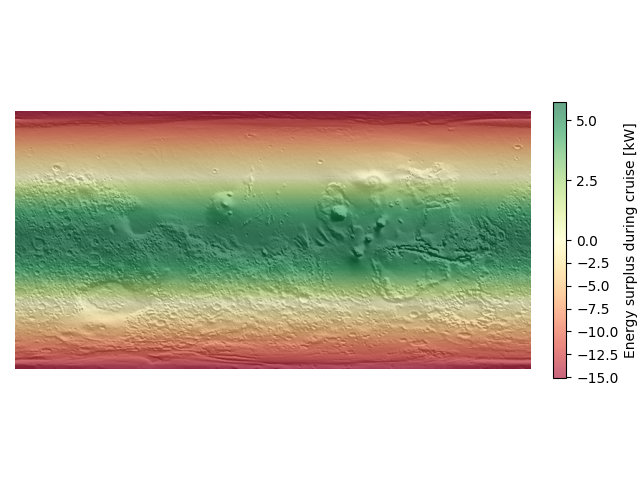
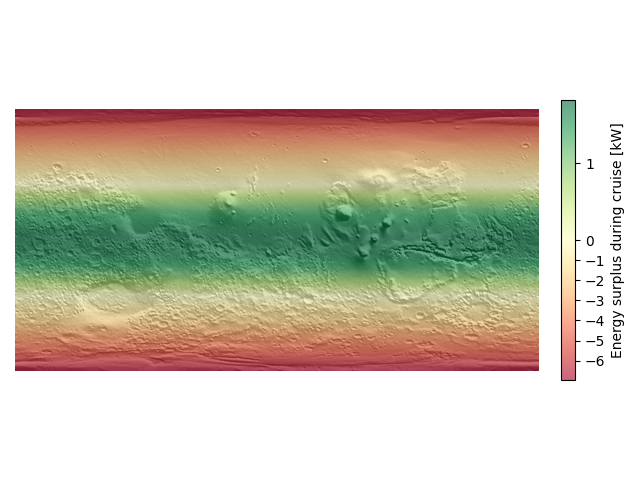
Iteration set up

Changed region(s): [[0.0, 0.1875, 1.0, 0.8125]]

diff --git a/dse/preliminary/Tilt_rotor/tiltrotormain.py b/dse/preliminary/Tilt_rotor/tiltrotormain.py
@@ -9,8 +9,9 @@ from constants import const
 if __name__ == '__main__':
     # Sizing of Rotor:
     margin = 0.1
-    Mass_thrust = 3000*(1+margin)  # kg
+
     Mass_design = 3000  # kg
+    Mass_thrust = Mass_design*(1+margin)  # kg
     Mass_payload = 400  # kg
 
     DesignRange = 1000 #km
@@ -22,35 +23,40 @@ if __name__ == '__main__':
     N_ult = 4.4
     AR = 20
     wingbraced = True
-    V_cr = 112  # m/s
+    V_cr = 400/3.6  # m/s
     E_density = 333.33  # W/kg
     P_density_cr = 212  # wh/kg
     P_density_TO = 700  # Wh/kg Power Density of the devices used for take-off
     E_density_TO = 300  # W/kg
     Volume_bat = 450  # Wh/L
-
     # Set up Calculations
     TipSpeed = -0.88*V_cr + 268.87
-    R, takeOffThrustPerEngine, Horsepower, Power, mass_rotors = RadiusMassElementMomentum(Mass_thrust, TotalRotors, BladePerRotor, coaxial, TipSpeed, print_results=True)
+    diff=100
+    while diff>0.01:
+        Mass_thrust = Mass_design * (1 + margin)  # kg
+        R, takeOffThrustPerEngine, Horsepower, Power, mass_rotors = RadiusMassElementMomentum(Mass_thrust, TotalRotors, BladePerRotor, coaxial, TipSpeed, print_results=True)
 
-    # Calculate wing area
-    S, cruiseThrust = area_and_thrust(0, const['cl'], const['cd'], Mass_design, 0.5*const['airDensity']*V_cr**2)
+        # Calculate wing area
+        S, cruiseThrust = area_and_thrust(0, const['cl'], const['cd'], Mass_design, 0.5*const['airDensity']*V_cr**2)
 
-    # Size batteries for cruise and solar panels
-    cruiseThrust += DragEstimation(R=R, Swing=S, t2c=const['t/c'], Vcr=V_cr, visc_cr=const['visc_cr'], AR=AR)
-    cruiseBattery, panelMass, powerSurplus = size_power_subsystem(R, takeOffThrustPerEngine, cruiseThrust, 1e6 / V_cr, 600, S/2,
-                                                                  plot=True)
+        # Size batteries for cruise and solar panels
+        cruiseThrust += DragEstimation(R=R, Swing=S, t2c=const['t/c'], Vcr=V_cr, visc_cr=const['visc_cr'], AR=AR)
+        batteryMass, panelMass, powerSurplus = size_power_subsystem(R, takeOffThrustPerEngine, cruiseThrust, 1e6 / V_cr, 600, S/2,
+                                                                      plot=True)
 
-    # Calculate weights
-    Range, wingWeight, tailWeight, bodyWeight = Class2Weight(R, mass_rotors, Mass_design, N_ult, AR,
-                                                                                    wingbraced, V_cr, E_density, P_density_TO,
-                                                                                    E_density_TO, Mass_payload, panelMass)
+        # Calculate weights
+        Range, wingWeight, tailWeight, bodyWeight = Class2Weight(R, mass_rotors, Mass_design, N_ult, AR,
+                                                                                        wingbraced, V_cr, E_density, P_density_TO,
+                                                                                        E_density_TO, Mass_payload, panelMass)
 
-    # Payload-Range
-    PayloadRange(R, mass_rotors, Mass_design, N_ult, AR, wingbraced, V_cr, E_density, P_density_TO, E_density_TO,
-                 panelMass, Mass_payload, minRange=1000)
+        # Payload-Range
+        PayloadRange(R, mass_rotors, Mass_design, N_ult, AR, wingbraced, V_cr, E_density, P_density_TO, E_density_TO,
+                     panelMass, Mass_payload, minRange=1000)
 
-    # Climb Performance
-    ROC_cruise = AircraftClimbPerf(cruiseBattery, P_density_cr, Mass_design, R, V_cr)
-    ROC_rotor = RotorClimbPerf(Mass_design, R, TotalRotors)
-    print(ROC_rotor, ROC_cruise)
+        # Climb Performance
+        ROC_cruise = AircraftClimbPerf(batteryMass, P_density_cr, Mass_design, R, V_cr)
+        ROC_rotor = RotorClimbPerf(Mass_design, R, TotalRotors)
+        Totalweight = mass_rotors+panelMass+batteryMass+wingWeight+tailWeight+bodyWeight
+        diff = abs((Totalweight-Mass_design)/Mass_design)
+        print(Totalweight)
+        Mass_design = Totalweight

diff --git a/dse/preliminary/Tilt_rotor/RotorEngineSizing.py b/dse/preliminary/Tilt_rotor/RotorEngineSizing.py
@@ -1,6 +1,5 @@
 import numpy as np
 import matplotlib.pyplot as plt
-from scipy import integrate
 from scipy.interpolate import InterpolatedUnivariateSpline
 from scipy.optimize import curve_fit
 from cruise_sizing import max_tipSpeed
@@ -16,7 +15,7 @@ def RadiusMassElementMomentum(M, N_rotors, N_blades, coaxial, V_tip, print_resul
 
     b = N_blades
     v_tip = V_tip
-    T_min = 1.1 * M * gm /N_rotors
+    T_min =M * gm /N_rotors
 
     # Initial guesses
     T = 0
@@ -75,23 +74,31 @@ def RadiusMassElementMomentum(M, N_rotors, N_blades, coaxial, V_tip, print_resul
 
     #Rotor Weight:
     # TODO: Update to S1223 Airfoil
-    x_cord_top = [1, 0.99838, 0.99417, 0.98825, 0.98075, 0.97111, 0.95884,0.94389,0.92639,0.90641,0.88406,0.85947,0.83277,
+    x_cord_top = np.flip([1, 0.99838, 0.99417, 0.98825, 0.98075, 0.97111, 0.95884,0.94389,0.92639,0.90641,0.88406,0.85947,0.83277,
                   0.80412,0.77369,0.74166,0.70823,0.6736,0.63798,0.60158,0.56465,0.52744,0.49025,0.4534,0.41721,0.38193,
                   0.34777,0.31488,0.28347,0.2537,0.22541,0.19846,0.17286,0.14863,0.12591,0.10482,0.08545,0.06789,0.05223,
-                  0.03855,0.02694,0.01755,0.01028,0.00495,0.00155,0.00005]
+                  0.03855,0.02694,0.01755,0.01028,0.00495,0.00155,0.00005])
     x_chord_bottom = [0.00005,0.00044,0.00264,0.00789,0.01718,0.03006,0.04627,
                   0.06561,0.08787,0.11282,0.1402,0.17006,0.20278,0.2384,0.27673,0.3175,0.36044,0.40519,0.45139,0.4986,0.54639,
                   0.59428,0.64176,0.68832,0.73344,0.7766,0.81729,0.855,0.88928,0.91966,0.94573,0.96693,0.98255,0.99268,0.99825,1]
-    y_cord_top = [0,0.00126,0.00494,0.01037,0.01646,0.0225,0.02853,0.03476,0.04116,0.04768,0.05427,0.06089,0.06749,0.07402,0.08044,0.08671,0.09277,0.09859,0.10412,0.10935,0.11425,0.11881,0.12303,0.12683,0.13011,0.13271,0.13447,0.13526,0.13505,0.13346,0.13037,0.12594,0.12026,0.11355,0.10598,0.0977,0.08879,0.0794,0.06965,0.05968,0.04966,0.03961,0.02954,0.01969,0.01033,0.00178]
+    y_cord_top = np.flip([0,0.00126,0.00494,0.01037,0.01646,0.0225,0.02853,0.03476,0.04116,0.04768,0.05427,0.06089,0.06749,0.07402,0.08044,0.08671,0.09277,0.09859,0.10412,0.10935,0.11425,0.11881,0.12303,0.12683,0.13011,0.13271,0.13447,0.13526,0.13505,0.13346,0.13037,0.12594,0.12026,0.11355,0.10598,0.0977,0.08879,0.0794,0.06965,0.05968,0.04966,0.03961,0.02954,0.01969,0.01033,0.00178])
     y_chord_bottom = [0.00178,-0.00561,-0.0112,-0.01427,-0.0155,-0.01584,-0.01532,-0.01404,-0.01202,-0.00925,-0.00563,-0.00075,0.00535,0.01213,0.01928,0.02652,0.03358,0.04021,0.04618,0.05129,0.05534,0.0582,0.05976,0.05994,0.05872,0.05612,0.05219,0.04706,0.04088,0.03387,0.02624,0.01822,0.0106,0.00468,0.00115,0]
 
     S1223_top = InterpolatedUnivariateSpline(x_cord_top, y_cord_top)
     S1223_bottom = InterpolatedUnivariateSpline(x_chord_bottom, y_chord_bottom)
 
 
-    Area = (S1223_top.integral(0, 1) - S1223_bottom.integral(0, 1))* c
+    Area_top = S1223_top.integral(0, 1)
+    Area_bot = S1223_bottom.integral(0, 1)
+    Area = (Area_top - Area_bot)*c
     fillfactor = 0.3
     Rotor_mass = const['bladeDensity']*R*Area*fillfactor
+
+    x=np.arange(0, 1, 0.01)
+    plt.plot(x, S1223_top(x))
+    plt.plot(x, S1223_bottom(x))
+    plt.axis('equal')
+    plt.show()
 
     if print_results:
         print('Given the mass of '+str(M)+'kg, the following applied: \n')

diff --git a/dse/preliminary/Tilt_rotor/power_sizing.py b/dse/preliminary/Tilt_rotor/power_sizing.py
@@ -54,6 +54,7 @@ def size_power_subsystem(radius, takeOffThrust, cruiseThrust, cruiseTime, takeOf
     cruiseBattery = cruiseEnergy / const['batteryEnergyDensity']
     panelMass = collectingArea * solarPanelDensity
     print(f'Mass of the batteries = {batteryMass} kg')
+    print(f'For cruise we need: {cruiseBattery*100/batteryMass}%')
     print(f'Mass of the solar panels = {panelMass} kg')
 
     if plot:
@@ -71,7 +72,7 @@ def size_power_subsystem(radius, takeOffThrust, cruiseThrust, cruiseTime, takeOf
         plt.savefig('../Figures/EnergySurplusCruise.png')
         plt.show()
 
-    return cruiseBattery, panelMass, powerSurplus
+    return batteryMass, panelMass, powerSurplus
 
 
 if __name__ == '__main__':

diff --git a/dse/preliminary/Tilt_rotor/PerformanceAnalysis.py b/dse/preliminary/Tilt_rotor/PerformanceAnalysis.py
@@ -31,6 +31,7 @@ def AircraftClimbPerf(m_bat_cr, P_dens_cr, M_design, R, V_cr):
     T_max = (P_climb_ac / (np.sqrt(1 / (2 * const['airDensity'] * np.pi * R**2))))**(2/3)
     gamma = np.arctan(T_max/W - const['cd']/const['cl'])
     ROC_cr = np.sin(gamma)*V_cr
+    print(f'ROC in aircraft configuration: {ROC_cr} [m/s]')
     return ROC_cr
 
 
@@ -50,5 +51,6 @@ def RotorClimbPerf(MTOM, R, n_rotors):
         V_c += 0.1
         Dhp = MTOW/550 * (V_c/2 + np.sqrt((V_c/2)**2 + v_1hover**2) - v_1hover)
     ROC_vert = V_c / 3.28084
+    print(f'ROC in rotorcraft configuration: {ROC_vert} [m/s]')
 
     return ROC_vert
